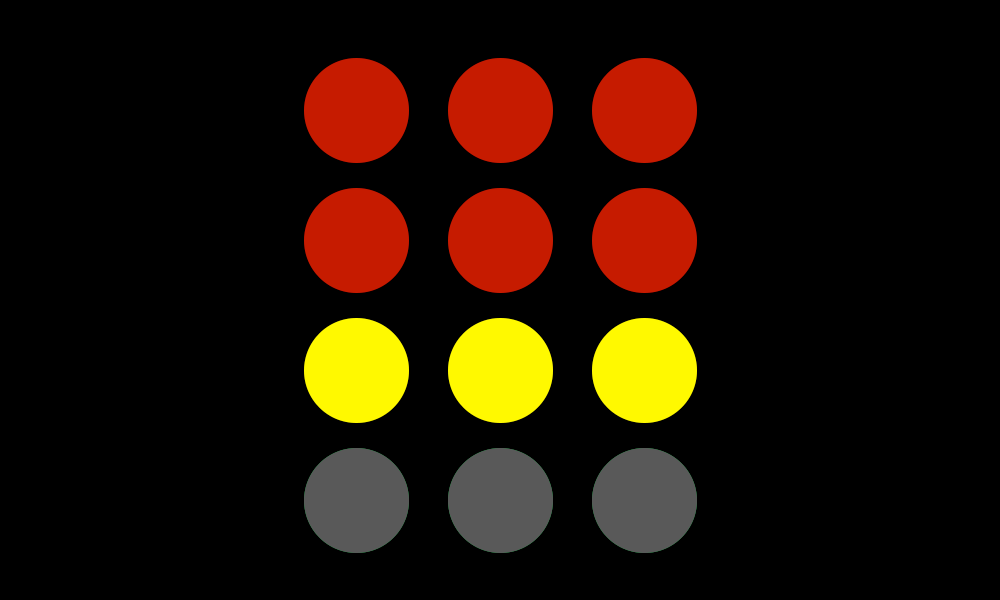
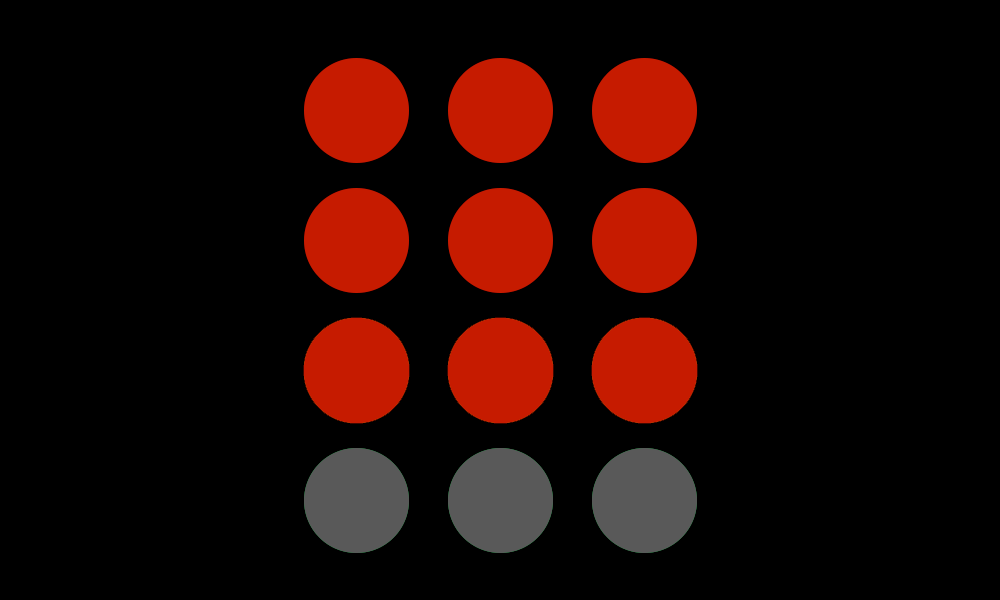
lyhennetty aikaa ja randomoitu vihreän palamista

Changed region(s): [[0.279, 0.51, 0.558, 0.72], [0.589, 0.51, 0.713, 0.72]]

diff --git a/index.js b/index.js
@@ -62,30 +62,30 @@ app.get("/", (req, res) => {
     `);
 });
 
-var counter = 8;
+var counter = 4;
 setInterval(() => {
     counter--;
     var color = null;
-    if(counter == 7) {
+    if(counter == 3) {
         color = "/img/1.png";
     }
-    else if(counter == 6)
-        color = "/img/1.png";
-    else if(counter == 5)
-        color = "/img/2.png";
-    else if(counter == 4)
-        color = "/img/2.png";
-    else if(counter == 3)
-        color = "/img/3.png";
     else if(counter == 2)
+        color = "/img/2.png";
+    else if(counter == 1) {
         color = "/img/3.png";
+        //arvotaan laskuriin +1, jotta vihreä tulee epätasaisemmin ajoin
+        var random_boolean = Math.random() < 0.4; // 40% mahis tulla true
+        if (random_boolean) {
+            counter++;
+        }
+    }
     else
         color = "/img/4.png";
 
     openWebsocketConnections.forEach(connection => connection.send(color));
     if(counter <= 0)
-        counter = 8;
-}, 1000);
+        counter = 4;
+}, 1300);
 
 app.listen(process.env.PORT || port, () => { //Herokua varten. Heroku asettaa portin process.env.PORT:iin
     console.log(`Kellox app listening at http://localhost:${port}`)
